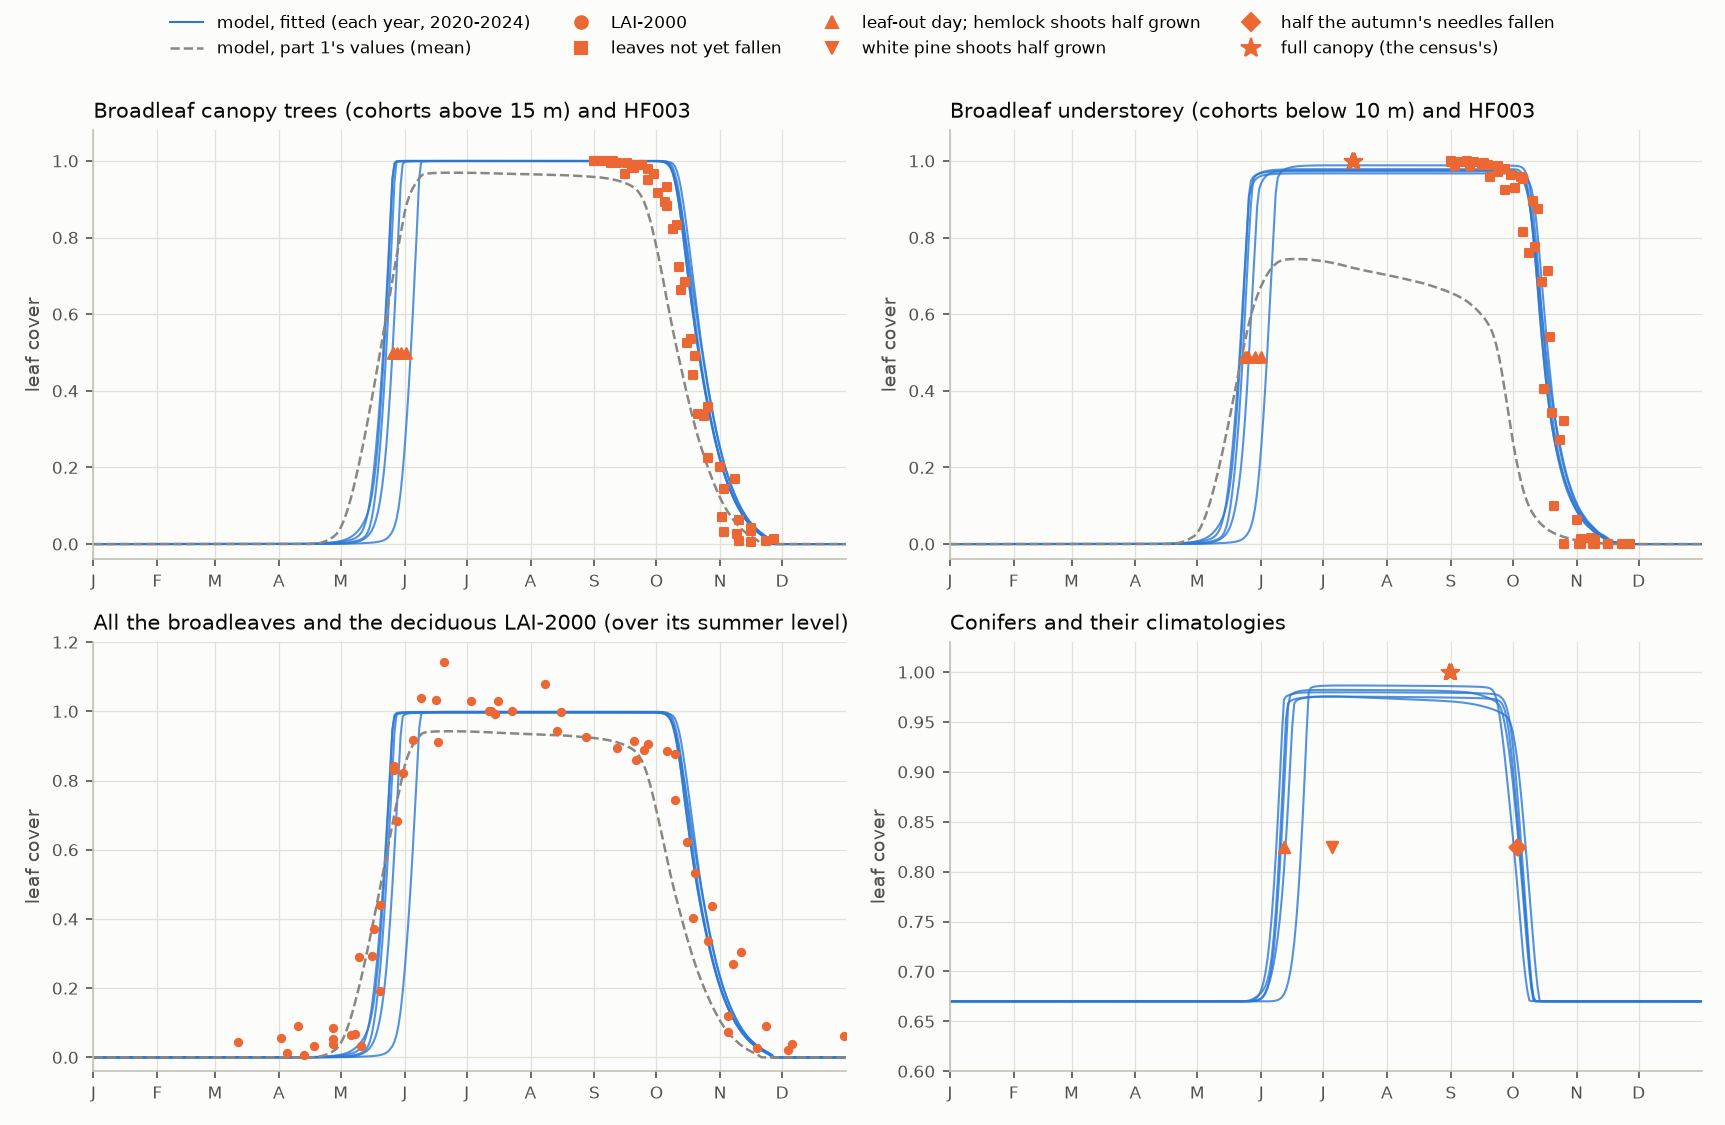
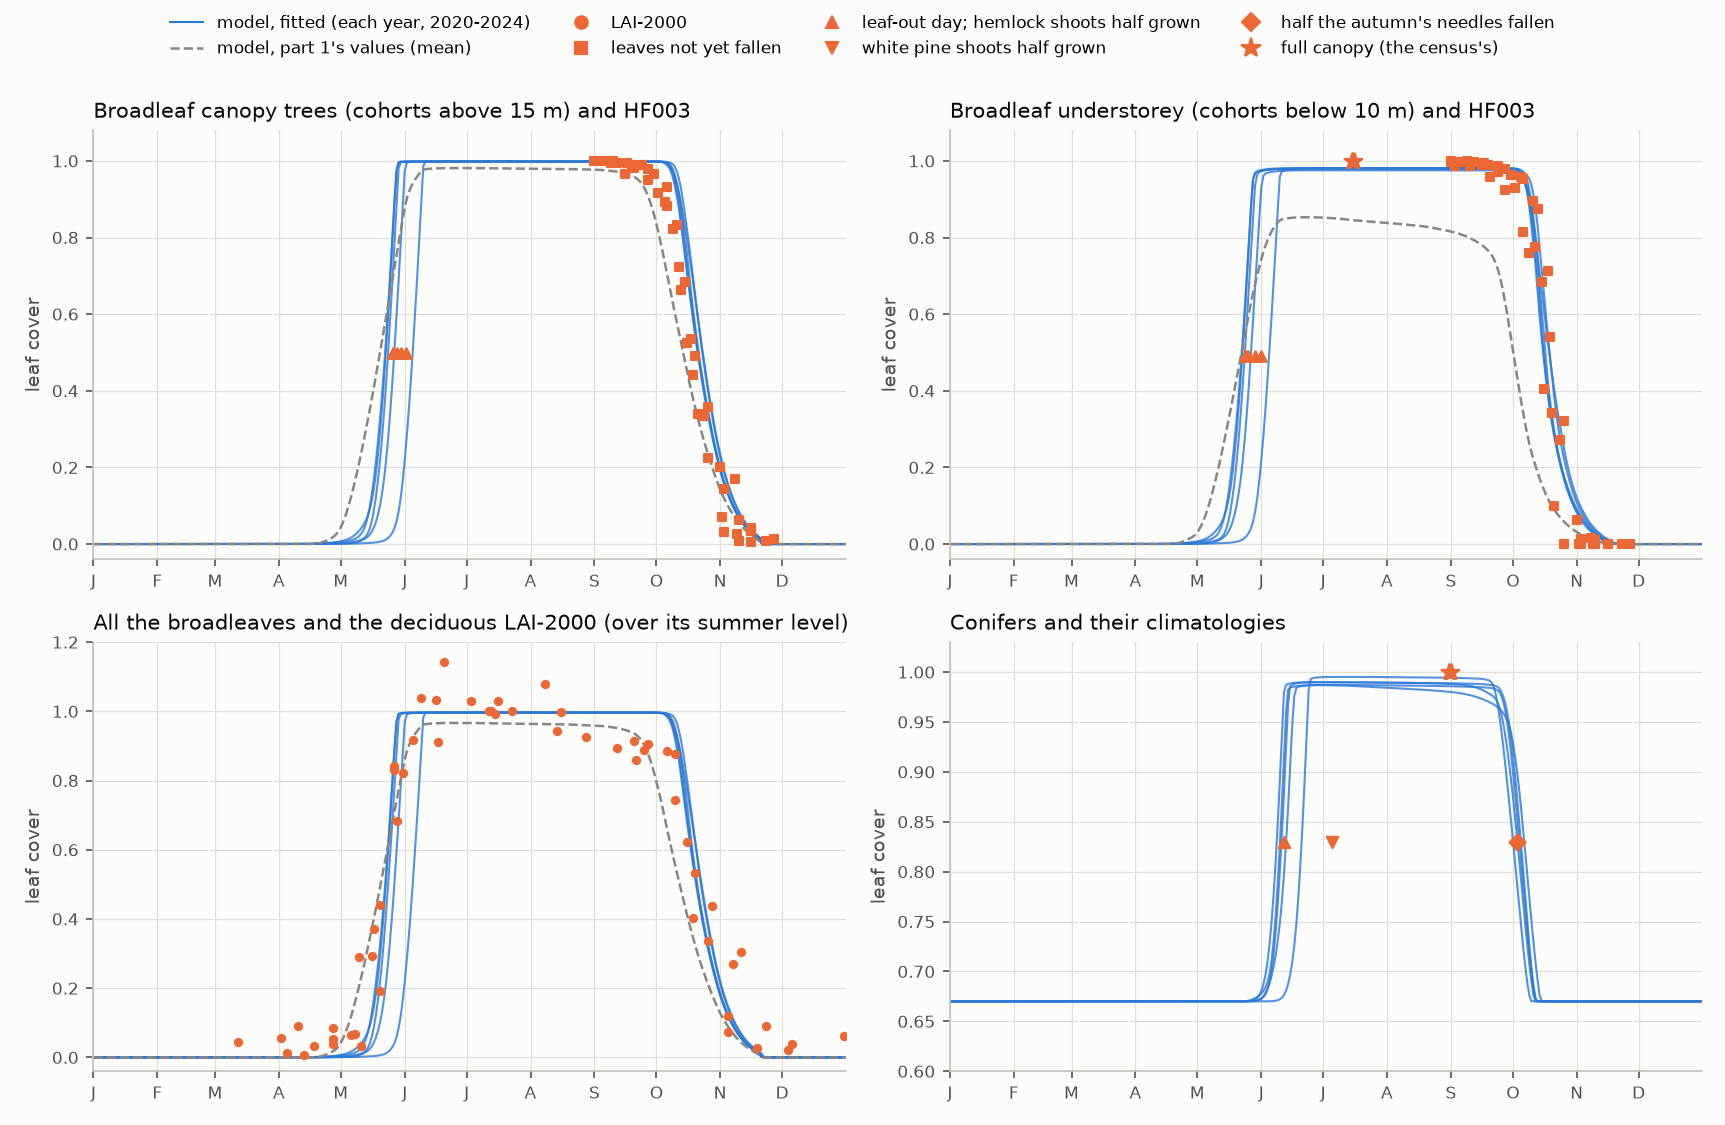
Example 02 part 2: refit on the stand with the MODIS/LAI-2000 leaf area
The broadleaves' sparser canopy (lai_b1 x 0.713) changes their cohorts' light cues; the fit settled
again in three rounds (closure within 0.0013). Example 04's PFT file carries the new values; the
README's table and figure follow (canopy leaf-out -2.1 days, understorey -0.5).

diff --git a/examples/example02_canopy_phenology/README.md b/examples/example02_canopy_phenology/README.md
@@ -129,8 +129,9 @@ python plot_fit.py                       # harvard_stand.png
 ```
 
 A round is a coupled run of the stand (about 5 minutes) and a fit of the offline stand (10–15
-minutes) on one 40-core node. From settled values the fit settles in two rounds (27 minutes); from part
-1's values it takes four, about an hour. The fit writes example 04's PFT file with the fitted values to
+minutes) on one 40-core node. From an earlier fit's values the fit settles in two or three rounds (the
+last, after a change to the stand's leaf area, took three: 44 minutes); from part 1's values it takes
+four, about an hour. The fit writes example 04's PFT file with the fitted values to
 `../data/harvard_stand_runs/pft_parameters_fitted.toml`; example 04's file carries them.
 
 ### What is fitted
@@ -150,26 +151,26 @@ ever to refill). The tool's README tells why each was needed.
 
 | target | cohorts | model − observed (RMSE) |
 |---|---|---|
-| HF003, leaf-out day of the canopy species | broadleaves above 15 m | −3.1 days (4.4) |
-| HF003, leaf-out day of the understorey species | broadleaves below 10 m | −1.4 days (2.9) |
-| HF003, leaves fallen, canopy species | broadleaves above 15 m | −0.07 of the canopy (0.10) |
-| HF003, leaves fallen, understorey species | broadleaves below 10 m | −0.02 (0.07) |
+| HF003, leaf-out day of the canopy species | broadleaves above 15 m | −2.1 days (3.8) |
+| HF003, leaf-out day of the understorey species | broadleaves below 10 m | −0.5 days (2.5) |
+| HF003, leaves fallen, canopy species | broadleaves above 15 m | −0.06 of the canopy (0.10) |
+| HF003, leaves fallen, understorey species | broadleaves below 10 m | −0.03 (0.07) |
 | full in mid-July | broadleaves below 10 m | −0.02 |
-| LAI-2000, deciduous, over its summer level | all broadleaves | −0.02 (0.13) |
+| LAI-2000, deciduous, over its summer level | all broadleaves | −0.03 (0.13) |
 | EMS baskets, share of the autumn's litter | all broadleaves | +0.06 (0.10) |
-| canopies lost a year (1) | all broadleaves | +0.01 |
-| MODIS, scaled within each year | the whole stand | +0.06 (0.18) |
-| hemlock shoots half grown (day 163) | conifers | +0.6 days (4.3) |
-| white pine shoots half grown (day 186) | conifers | −22.7 days |
-| half the autumn's needles fallen (day 276) | conifers | +1.4 days (2.4) |
-| needles lost a year (0.35) | conifers | +0.02 |
-| full at the end of August | conifers | −0.02 |
+| canopies lost a year (1) | all broadleaves | +0.00 |
+| MODIS, scaled within each year | the whole stand | +0.05 (0.18) |
+| hemlock shoots half grown (day 163) | conifers | +0.8 days (4.3) |
+| white pine shoots half grown (day 186) | conifers | −22.5 days |
+| half the autumn's needles fallen (day 276) | conifers | +1.0 days (2.1) |
+| needles lost a year (0.35) | conifers | +0.01 |
+| full at the end of August | conifers | −0.01 |
 
 - **The cohorts' own cues change the answer.** With part 1's values (the dashed lines), fitted to the
   site's air and the light above the canopy, the understorey fills only two thirds and falls two to
   three weeks early: under the canopy the hours of light are fewer, and its light cue reads them. Fitted with
-  the cohorts' own cues, the broadleaves need more warmth to flush (266 against 92 K day above 5 °C) and
-  more cold to drop (181 K day below 292.0 K, against 48 below 290.3 K).
+  the cohorts' own cues, the broadleaves need more warmth to flush (262 against 92 K day above 5 °C) and
+  more cold to drop (166 K day below 291.8 K, against 48 below 290.3 K).
 - **The conifers** keep two thirds of their needles from October to June, grow their shoots in June
   and are full by the end of August; the needle fall comes in early October. White pine's shoots, the
   loosest target (a 20-day spread), pull against hemlock's and lose.
